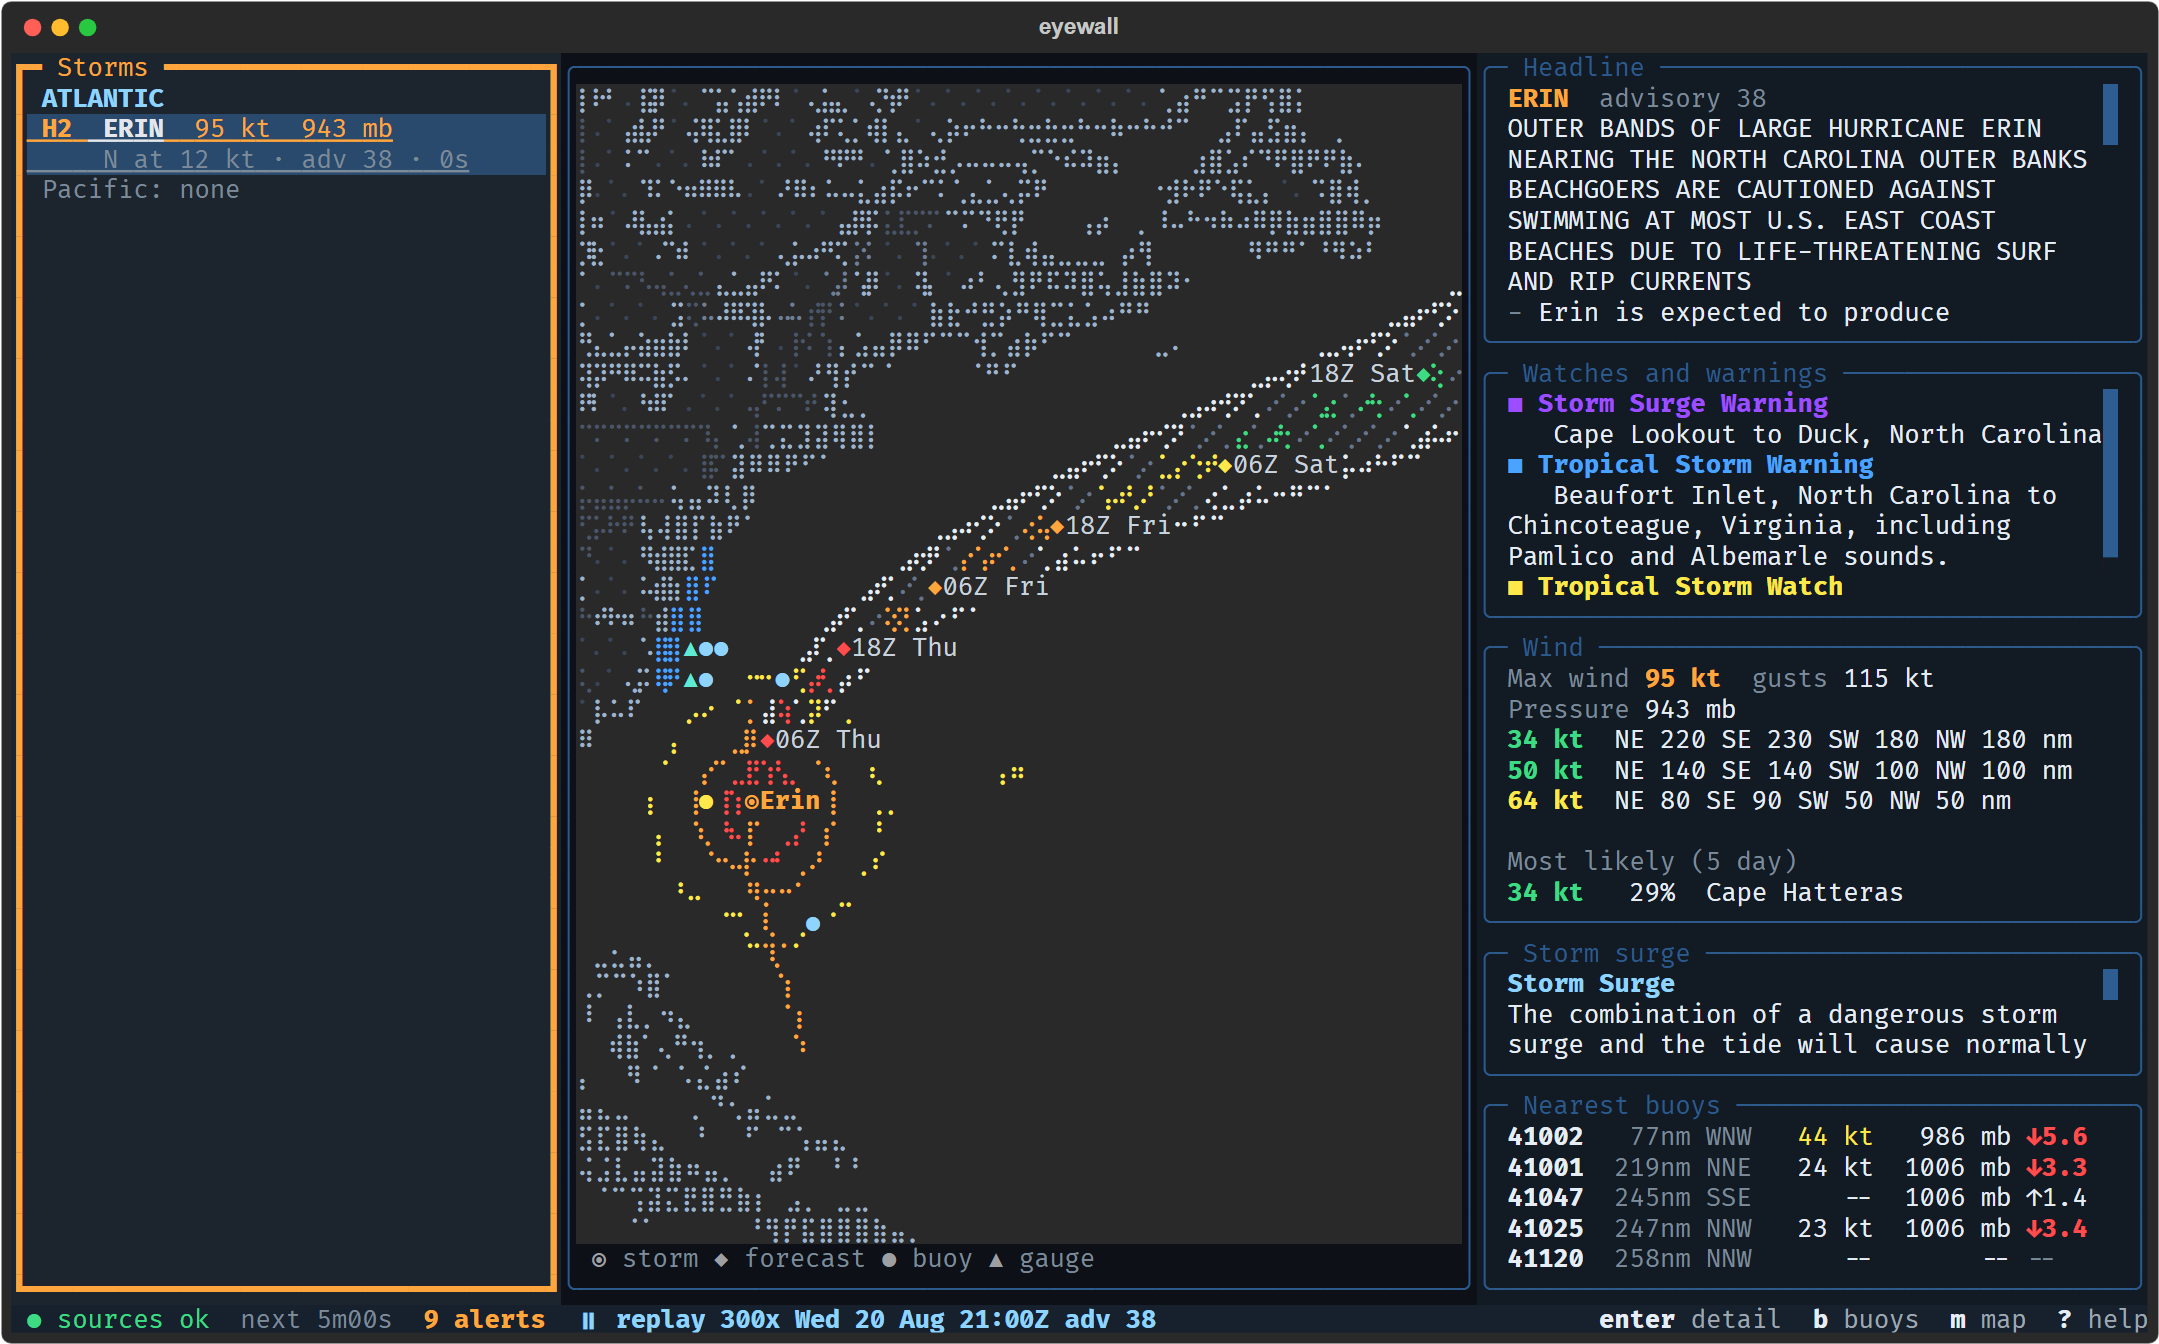
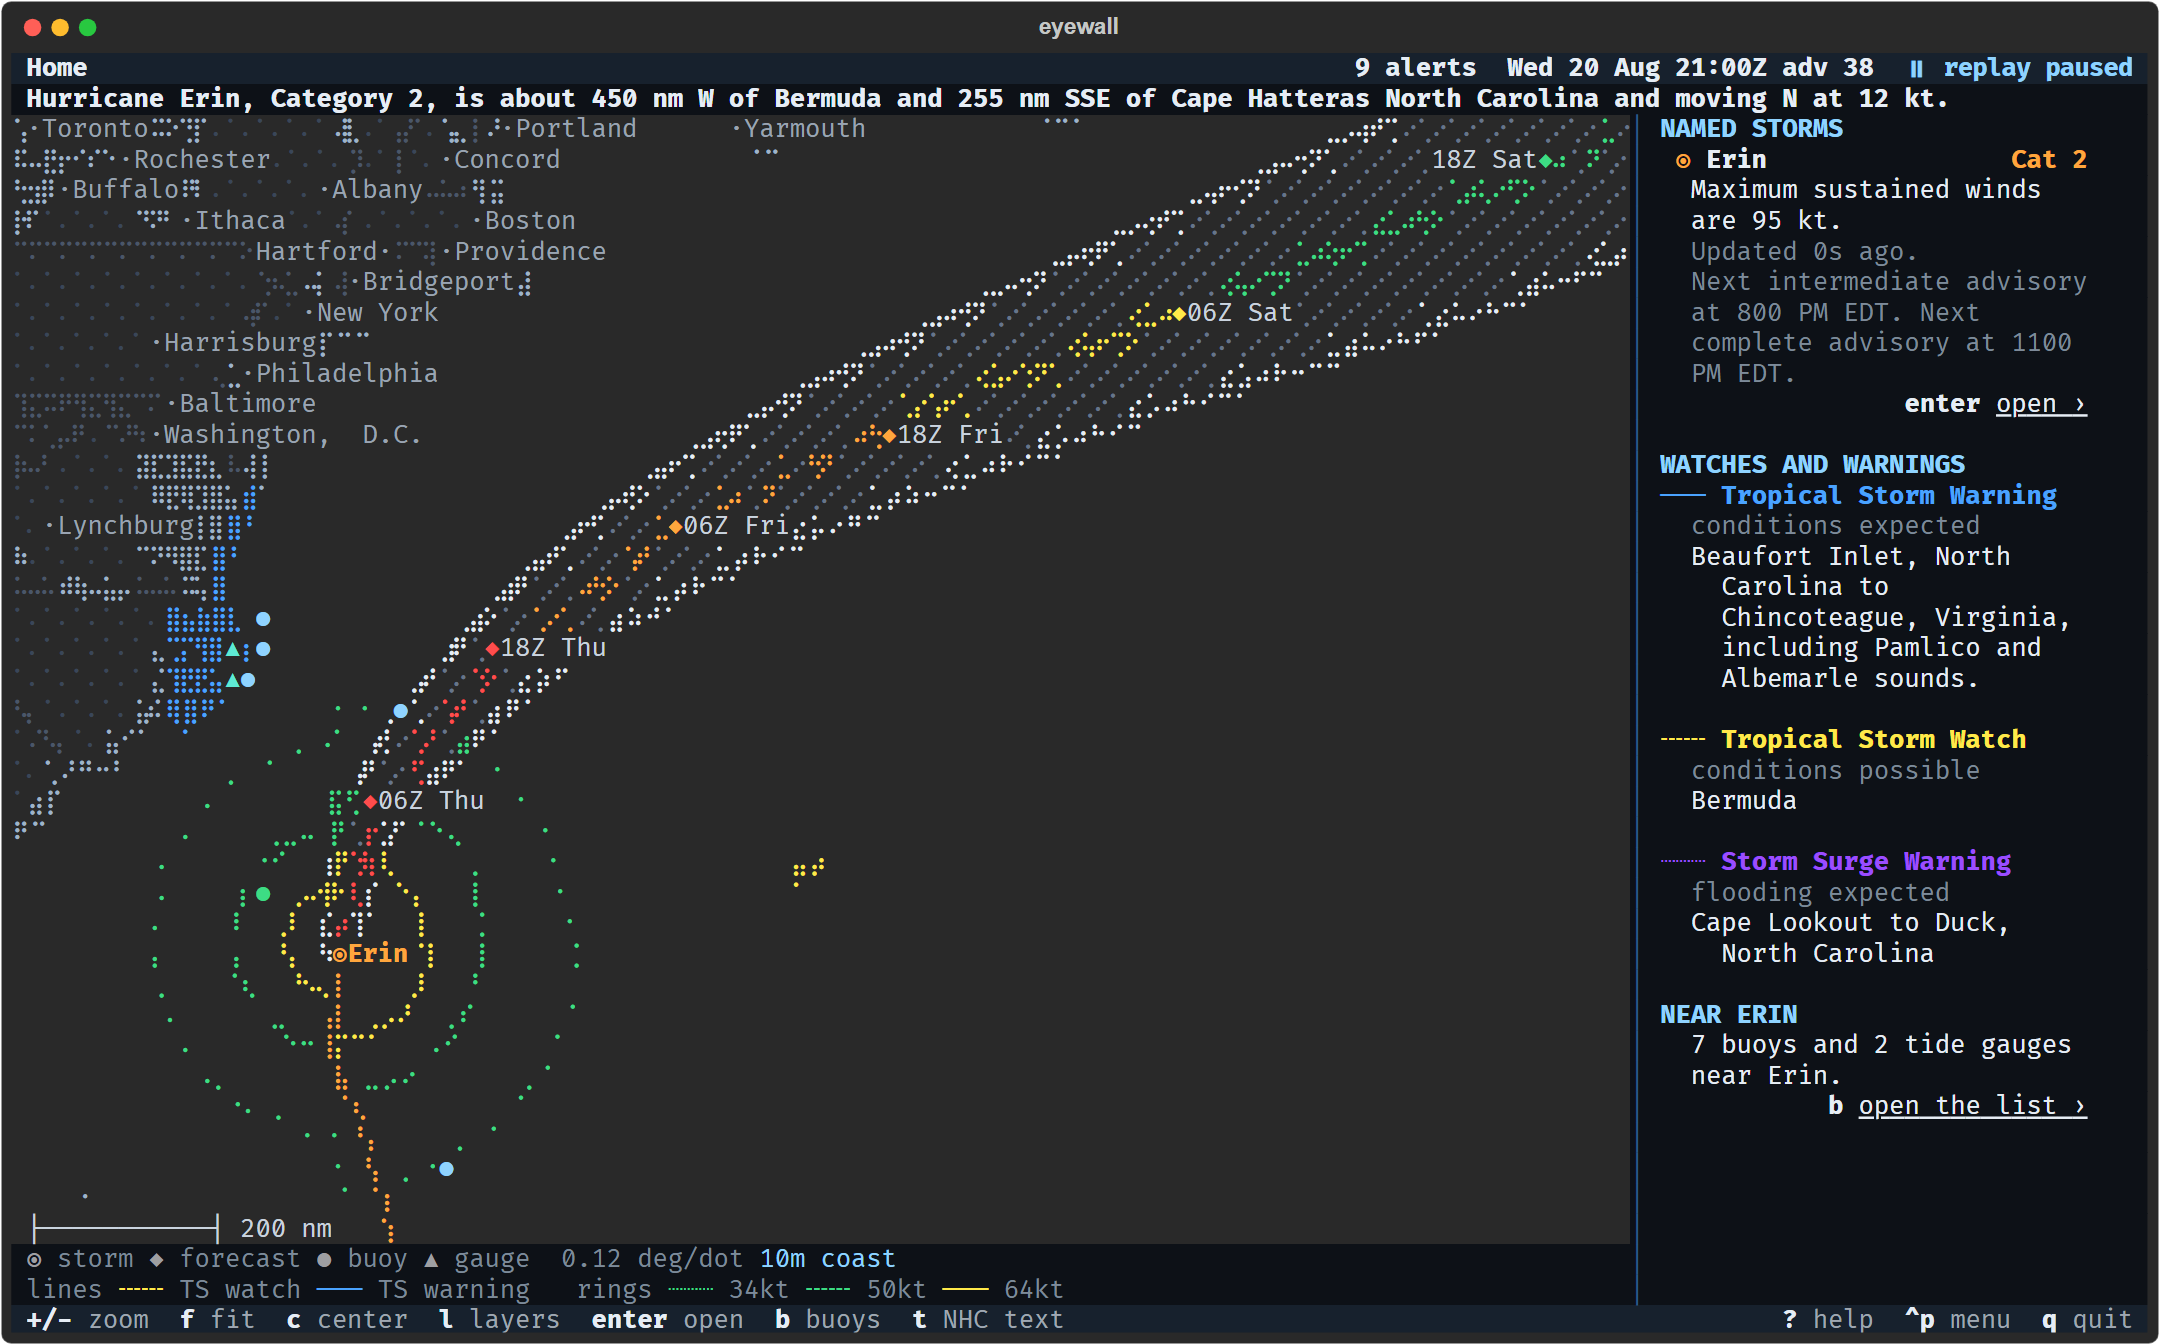
docs: list the redesign UAT fixes in the 0.9.0 changelog, retake the screenshots in colour, add the 100x40 UAT size

diff --git a/tests/uat/harness.py b/tests/uat/harness.py
@@ -24,7 +24,7 @@ from eyewall.app import EyewallApp
 from eyewall.ui.screens.small import TooSmallScreen
 from tests.ui_support import press, screen_text, settle
 
-SIZES = [(80, 24), (120, 30)]  # the floor and the main size; most scenarios run at both
+SIZES = [(80, 24), (100, 40), (120, 30)]  # the floor, a tall-narrow size and the main size; most scenarios run at all
 EXTRA_SIZES = [(100, 50), (200, 50), (280, 70)]  # tall-narrow and large terminals, for the every-screen sweep
 STATUS_IDS = (
     "#status",

diff --git a/tests/uat/test_graphics_footer_resize_cli.py b/tests/uat/test_graphics_footer_resize_cli.py
@@ -261,7 +261,7 @@ def test_cli_headless_rejects_a_bad_until() -> None:
 
 
 def test_sizes_are_the_agreed_ones() -> None:
-    assert SIZES == [(80, 24), (120, 30)] and EXTRA_SIZES == [(100, 50), (200, 50), (280, 70)]
+    assert SIZES == [(80, 24), (100, 40), (120, 30)] and EXTRA_SIZES == [(100, 50), (200, 50), (280, 70)]
 
 
 async def test_no_colour_mode_does_not_crash(journey, monkeypatch) -> None:

diff --git a/CHANGELOG.md b/CHANGELOG.md
@@ -29,6 +29,7 @@
 - Add place names and a scale bar to the map ([`863e5b0`](https://github.com/WPTK/eyewall/commit/863e5b0), [#118](https://github.com/WPTK/eyewall/pull/118))
 - Add hover names, drag to pan and `n`, `N` and `Enter` stepping to the map's marks ([`6c85034`](https://github.com/WPTK/eyewall/commit/6c85034), [#119](https://github.com/WPTK/eyewall/pull/119))
 - Keep bold, underline and reverse video on the map and charts when `NO_COLOR` is set ([`cb806d9`](https://github.com/WPTK/eyewall/commit/cb806d9), [#117](https://github.com/WPTK/eyewall/pull/117))
+- Add `Tab` on the Station screen to show the next chart when the screen is too short for all of them ([`4d5deff`](https://github.com/WPTK/eyewall/commit/4d5deff), [#126](https://github.com/WPTK/eyewall/pull/126))
 - Add the last traceback to the feed canary issue ([`0ac3d0b`](https://github.com/WPTK/eyewall/commit/0ac3d0b), [#25](https://github.com/WPTK/eyewall/pull/25))
 
 ### Removed
@@ -38,6 +39,14 @@
 
 ### Fixed
 
+- Fix a corrupt NHC zip raising `NotImplementedError` instead of a parse error ([`ec6c656`](https://github.com/WPTK/eyewall/commit/ec6c656), [#123](https://github.com/WPTK/eyewall/pull/123))
+- Fix the alert log order, which followed arrival instead of the time of each event ([`4d5deff`](https://github.com/WPTK/eyewall/commit/4d5deff), [#126](https://github.com/WPTK/eyewall/pull/126))
+- Fix the map legend, which did not name the marked storm or station and put each line sample after its label ([`4d5deff`](https://github.com/WPTK/eyewall/commit/4d5deff), [#126](https://github.com/WPTK/eyewall/pull/126))
+- Fix station charts not fitting short screens and chart legends cut mid-name ([`4d5deff`](https://github.com/WPTK/eyewall/commit/4d5deff), [#126](https://github.com/WPTK/eyewall/pull/126))
+- Fix feed failures shown as raw error text; the feed list and the main screen now say in plain words why, and when the next try is ([`4d5deff`](https://github.com/WPTK/eyewall/commit/4d5deff), [#126](https://github.com/WPTK/eyewall/pull/126))
+- Fix the offline wording on the main screen and feed list, which now says the saved copy is shown because the network is not answering ([`4d5deff`](https://github.com/WPTK/eyewall/commit/4d5deff), [#126](https://github.com/WPTK/eyewall/pull/126))
+- Fix the Pictures layout: hide the list when there is one picture, keep the keys working there and drop recording paths ([`4d5deff`](https://github.com/WPTK/eyewall/commit/4d5deff), [#126](https://github.com/WPTK/eyewall/pull/126))
+- Fix the dim purple surge warning heading under `NO_COLOR` ([`4d5deff`](https://github.com/WPTK/eyewall/commit/4d5deff), [#126](https://github.com/WPTK/eyewall/pull/126))
 - Fix the track line leaving a gap when the storm center is newer than the last best-track fix ([`82daa00`](https://github.com/WPTK/eyewall/commit/82daa00), [#26](https://github.com/WPTK/eyewall/pull/26))
 - Fix a watchlisted tide gauge missing from the CO-OPS catalog showing "waiting" instead of "unknown" ([`82daa00`](https://github.com/WPTK/eyewall/commit/82daa00), [#26](https://github.com/WPTK/eyewall/pull/26))
 - Fix duplicate storm ids in the CurrentStorms feed and uncapped shapefile zip members ([`82daa00`](https://github.com/WPTK/eyewall/commit/82daa00), [#26](https://github.com/WPTK/eyewall/pull/26))

diff --git a/README.md b/README.md
@@ -82,6 +82,7 @@ On the other screens:
 | Buoys and gauges | `Enter` | Open the highlighted station |
 | Buoys and gauges | `f`, `s`, `Tab` | Follow or stop following; change the order; switch tabs |
 | Station | `f`, `m` | Follow or stop following; show the station on the map |
+| Station | `Tab` | On a short screen, show the next chart |
 | Station | `h`, `r`, `i` | 24, 48 or 72 hours; charts or readings; how buoy winds differ from the storm's |
 | Pictures | `o`, `y` | Open the picture's address in a browser; copy it |
 | Pictures | `[`, `]`, `Space` | Step through a loop; play or pause |
